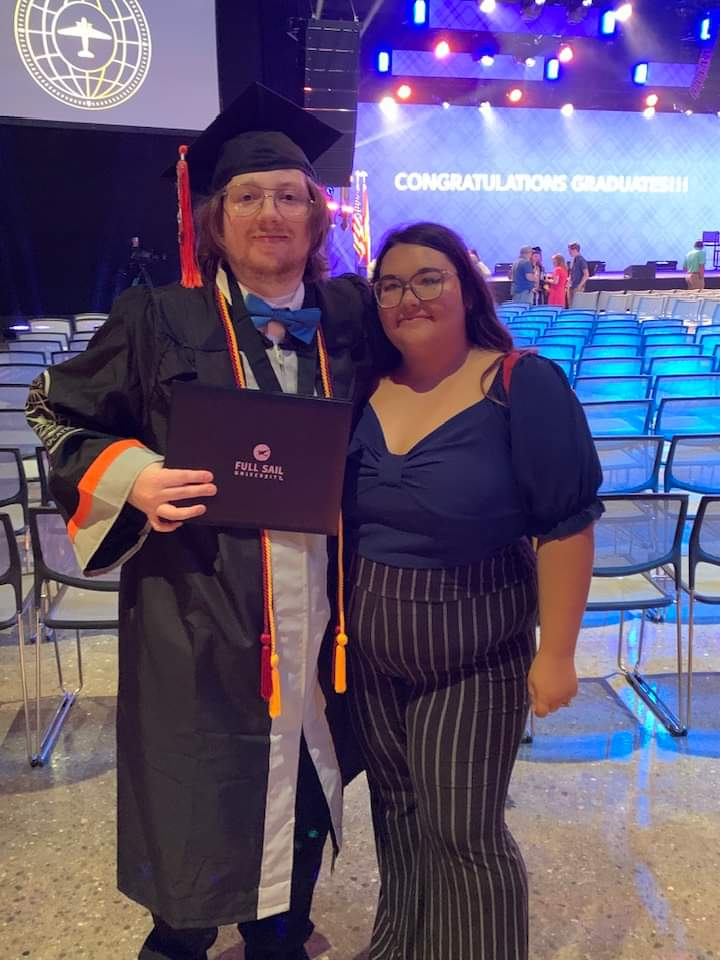
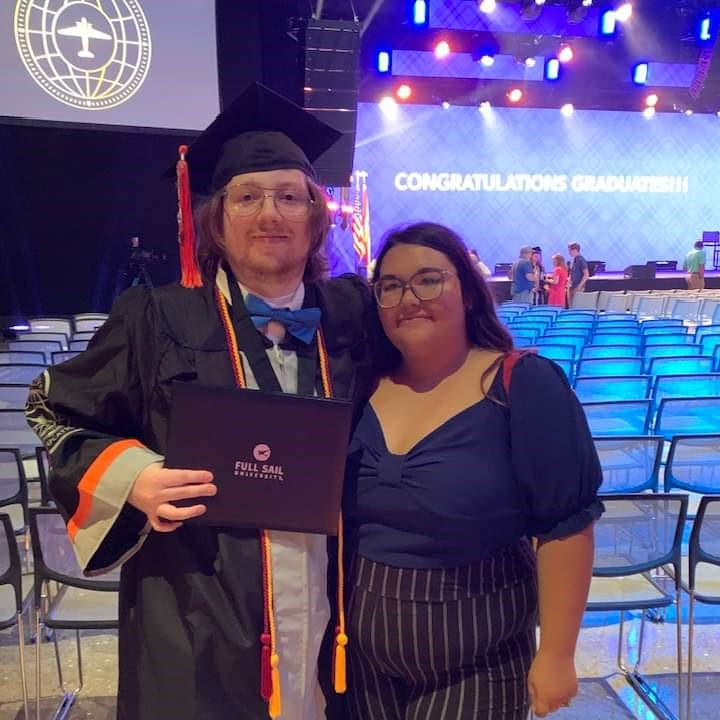
About me
Finished about me section

diff --git a/Index.html b/Index.html
@@ -12,22 +12,16 @@
 <body>
     <!This is comment>
     <div class="card title">
-        <h1> Jordan Page's Portfolio</h1>
+        <h1 class="smallheader"> Jordan Page's Portfolio</h1>
         <h3> Designer/Developer</h3>
     </div>
 
 
     <!Order of Paragraphs do matter. I guess that should be obvious>
-    <div class="container">
-        <!img src=""
-        <p>
-            My name is Jordan Page. I was born and raised in Mississippi, and I am the oldest of three children. I graduated from Full Sail University in 2024 with a Bachelor of Science in Game Design.
-            My favorite topics are technology, game development, game design, and video games. In my free time, I am often spending time with friends and family, teaching myself a new development-related skills, or playing video games.
-            My favorite classes from college were ones that focused around designing 3D structured environments as well as designing and implementing custom user interfaces.
-        </p>
-    </div>
     
-    <h2>Main Projects</h2>
+    <p>                                     </p>
+
+    <h2 class="mediumheader">Main Projects</h2>
 
     <!TRY USING CONTAINERS FOR IMAGES + PARAGRAPHS + BUTTONS>
     <div class=" container">
@@ -163,7 +157,7 @@
         </div>
     </div>
 
-    <h2>Proof of Concepts</h2>
+    <h2 class="mediumheader">Proof of Concepts</h2>
 
     <div class="container">
         <div class="container row">
@@ -221,6 +215,24 @@
             </p>
         </div>
     </div>
+
+    <h2 class="mediumheader"> About Me</h2>
+
+    <div class="container">
+        <img src="Images/GraduationTrio.jpg" alt="Graduation" class="small" />
+        <p>
+            My name is Jordan Page. I was born and raised in Mississippi, and I am the oldest of three children. 
+            I graduated from Full Sail University in 2024 with a Bachelor of Science in Game Design.
+            My favorite topics are technology, game development, game design, and video games.
+            In my free time, I am often spending time with friends and family, teaching myself a new development-related skills, or playing video games. 
+            My favorite classes from college were ones that focused around designing 3D structured environments as well as designing and implementing custom user interfaces.
+            I am a capable and quick learner with a varying degree of technological skills. 
+            I am also a great collaborator and a very capable solo worker. 
+            Although I consider myself knowledge of a lot of things, I am not afraid to ask questions from peers and others, so that I can improve my work and gain more knowledge.
+        </p>
+        <img src="Images/Graduation.jpg" alt="Graduation" class="small" />
+    </div>
+
 
     <footer>
          <! target="_blank" opens a new website

diff --git a/StyleSheet1.css b/StyleSheet1.css
@@ -13,9 +13,14 @@ h1, h2, h4 {
     margin: 10px;
 }
 
-h1 {
+.smallheader {
     font-size: 55px;
     margin: 10px;
+}
+
+.mediumheader {
+    font-size: 35px;
+    margin-top: 20px;
 }
 
 h3 {
@@ -38,6 +43,12 @@ img {
 .small {
     width: 300px;
     height: 200px;
+    margin: auto;
+}
+
+.medium {
+    width: 150px;
+    height: auto;
     margin: auto;
 }
 
@@ -157,6 +168,10 @@ footer {
 
 .icon {
     padding-right: 20px;
+}
+
+p {
+    text-align: center
 }
 /*this is comment*/
 /*this is comment*/
